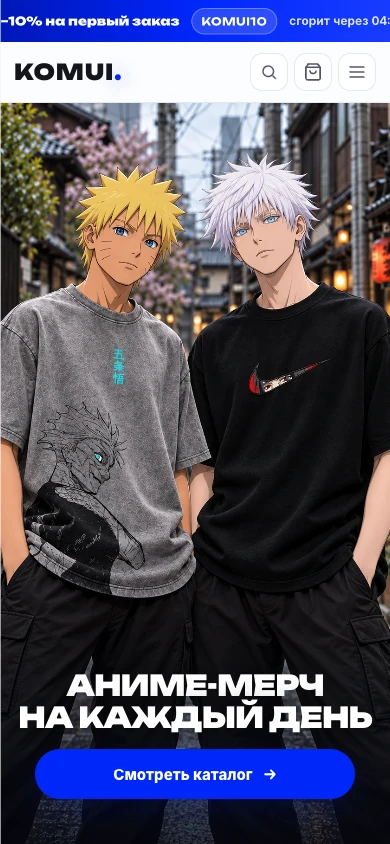
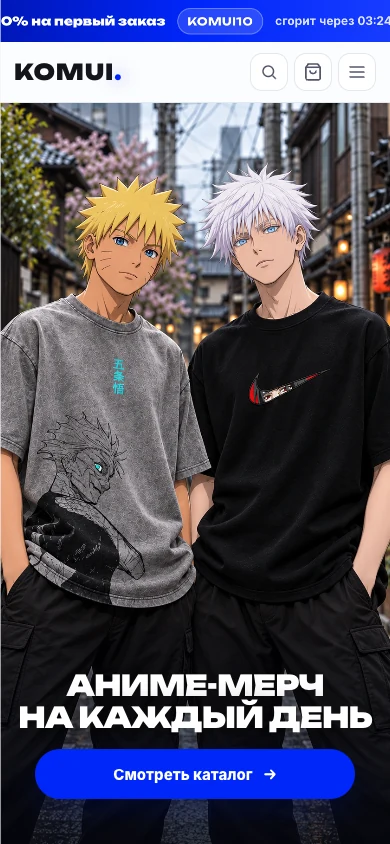
Fix mobile hero cropping across B C D variants

diff --git a/assets/experiments/home-hero-2026-09-25/hero.css b/assets/experiments/home-hero-2026-09-25/hero.css
@@ -94,15 +94,15 @@ html[data-komui-hero-variant="D"] #home .hero-experiment-image{
   }
   html[data-komui-hero-variant="B"] #home .hero-experiment-image{
     background-image:url('/assets/experiments/home-hero-2026-09-25/b-mobile-2k.webp');
-    transform:scale(1.22);
+    transform:translateY(clamp(12px,calc(100vw - 390px),100px)) scale(1.22);
   }
   html[data-komui-hero-variant="C"] #home .hero-experiment-image{
     background-image:url('/assets/experiments/home-hero-2026-09-25/c-mobile.webp');
-    transform:scale(1.04);
+    transform:translateY(clamp(10px,calc(50vw - 185px),24px)) scale(1.04);
   }
   html[data-komui-hero-variant="D"] #home .hero-experiment-image{
     background-image:url('/assets/experiments/home-hero-2026-09-25/d-mobile.webp');
-    transform:scale(1.08);
+    transform:translateY(clamp(10px,calc(50vw - 185px),28px)) scale(1.08);
   }
   #home .hero-experiment::after{
     background:linear-gradient(180deg,transparent 53%,rgba(2,4,12,.06) 67%,rgba(2,4,12,.82) 100%);
@@ -110,6 +110,27 @@ html[data-komui-hero-variant="D"] #home .hero-experiment-image{
   #home .hero-experiment-copy{gap:16px;padding:0 16px calc(50px + env(safe-area-inset-bottom))}
   #home .hero-experiment-copy h1{font-size:clamp(27px,7.4vw,43px);line-height:1.1}
   #home .hero-experiment-cta{width:min(100%,320px);min-height:50px}
+}
+
+/* Wider portrait screens crop more of the source image when cover is used. */
+@media(min-width:460px) and (max-width:800px) and (orientation:portrait){
+  html[data-komui-hero-variant="C"] #home .hero-experiment-image,
+  html[data-komui-hero-variant="D"] #home .hero-experiment-image{background-position:center 60%}
+}
+@media(min-width:500px) and (max-width:800px) and (orientation:portrait){
+  html[data-komui-hero-variant="B"] #home .hero-experiment-image{background-position:center 50%}
+  html[data-komui-hero-variant="C"] #home .hero-experiment-image,
+  html[data-komui-hero-variant="D"] #home .hero-experiment-image{background-position:center 30%}
+}
+@media(min-width:640px) and (max-width:800px) and (orientation:portrait){
+  html[data-komui-hero-variant="B"] #home .hero-experiment-image{background-position:center 30%}
+  html[data-komui-hero-variant="C"] #home .hero-experiment-image,
+  html[data-komui-hero-variant="D"] #home .hero-experiment-image{background-position:center 20%}
+}
+@media(min-width:700px) and (max-width:800px) and (orientation:portrait){
+  html[data-komui-hero-variant="B"] #home .hero-experiment-image{background-position:center 25%}
+  html[data-komui-hero-variant="C"] #home .hero-experiment-image,
+  html[data-komui-hero-variant="D"] #home .hero-experiment-image{background-position:center 15%}
 }
 
 @media(max-width:800px) and (orientation:portrait) and (max-height:670px){
@@ -130,6 +151,27 @@ html[data-komui-hero-variant="D"] #home .hero-experiment-image{
 }
 @media(max-width:800px) and (orientation:portrait) and (max-height:700px){
   html[data-komui-hero-variant="B"] #home .hero-experiment-image{transform:scale(1.03)}
+}
+@media(min-width:420px) and (max-width:800px) and (orientation:portrait) and (max-height:760px){
+  html[data-komui-hero-variant="B"] #home .hero-experiment-image{background-position:center 65%}
+  html[data-komui-hero-variant="C"] #home .hero-experiment-image{background-position:center 25%}
+  html[data-komui-hero-variant="D"] #home .hero-experiment-image{background-position:center 50%}
+}
+@media(min-width:460px) and (max-width:800px) and (orientation:portrait) and (max-height:760px){
+  html[data-komui-hero-variant="B"] #home .hero-experiment-image{background-position:center 40%}
+  html[data-komui-hero-variant="C"] #home .hero-experiment-image{background-position:center 15%}
+  html[data-komui-hero-variant="D"] #home .hero-experiment-image{background-position:center 30%}
+}
+@media(min-width:520px) and (max-width:800px) and (orientation:portrait) and (max-height:760px){
+  html[data-komui-hero-variant="B"] #home .hero-experiment-image{background-position:center 20%}
+  html[data-komui-hero-variant="C"] #home .hero-experiment-image{background-position:center 10%}
+  html[data-komui-hero-variant="D"] #home .hero-experiment-image{background-position:center 20%}
+}
+/* Avoid a sudden crop when a wide phone crosses the 760px-height rule. */
+@media(min-width:440px) and (max-width:499px) and (orientation:portrait) and (min-height:761px) and (max-height:850px){
+  html[data-komui-hero-variant="B"] #home .hero-experiment-image{background-position:center 65%}
+  html[data-komui-hero-variant="C"] #home .hero-experiment-image{background-position:center 25%}
+  html[data-komui-hero-variant="D"] #home .hero-experiment-image{background-position:center 50%}
 }
 
 @media(prefers-reduced-motion:reduce){

diff --git a/docs/experiments/home-hero-2026-09-25/README.md b/docs/experiments/home-hero-2026-09-25/README.md
@@ -2,7 +2,7 @@
 
 Подготовлено и запущено 25.09.2026. Эксперимент Varioqub [№ 75857](https://metrika.yandex.ru/ab/edit/75857/?id=110916310) в счётчике `110916310` имеет статус **«Запущено»**. Меняется только первый экран главной `https://komui.ru/`; каталог и оформление остаются прежними.
 
-[Открыть сравнение всех вариантов в браузере](preview.html) — снимки первого экрана для десктопа и телефона, с увеличением по клику. Мобильные B/C/D обновлены 25.09.2026: головы расположены выше, а заголовок и кнопка подняты; на коротких экранах кадрирование отдельно ограничено, чтобы не обрезать лица. Это статическое превью: оно не переключает вариант у посетителей.
+[Открыть сравнение всех вариантов в браузере](preview.html) — снимки первого экрана для десктопа и телефона, с увеличением по клику. Мобильные B/C/D повторно скорректированы 25.09.2026: на широких и коротких экранах оба персонажа остаются в кадре, при этом принты футболок видны. Это статическое превью: оно не переключает вариант у посетителей.
 
 | Вариант | Что видит посетитель | Исходники | Флаг `komui_home_hero` |
 | --- | --- | --- | --- |
@@ -19,6 +19,7 @@
 - Метрики оставлены как выбраны при создании: основная — конверсия в цель «Товар добавлен в корзину», дополнительная — конверсия в цель «Просмотр товара». Оплаченные заказы оценивать отдельно как бизнес-результат: они не являются основной метрикой этого эксперимента.
 - A — без флага; B/C/D — один ключ `komui_home_hero` со значениями `B`, `C`, `D` соответственно. Код берёт последнее значение массива флага и игнорирует неизвестные значения. Не добавлять этот ключ в другой эксперимент одновременно.
 - Код и шесть WebP выложены на staging и prod из одного коммита `e63683a7defb`. После запуска продовый браузер реально получил D и отобразил соответствующий hero. [Отчёт Varioqub](https://metrika.yandex.ru/ab/result/75857/?id=110916310).
+- После запуска эксперимента исправлено только мобильное кадрирование B/C/D, без смены флагов и распределения. При анализе результатов учитывать эту дату изменения: показы до и после исправления не являются полностью одинаковыми креативами.
 
 На сайте при отсутствии ответа Varioqub или ошибке загрузки `exp.js` остаётся A. B/C/D не включаются параметром URL или локальным хранилищем посетителя. Вариант устанавливается только по ответу Varioqub.
 
